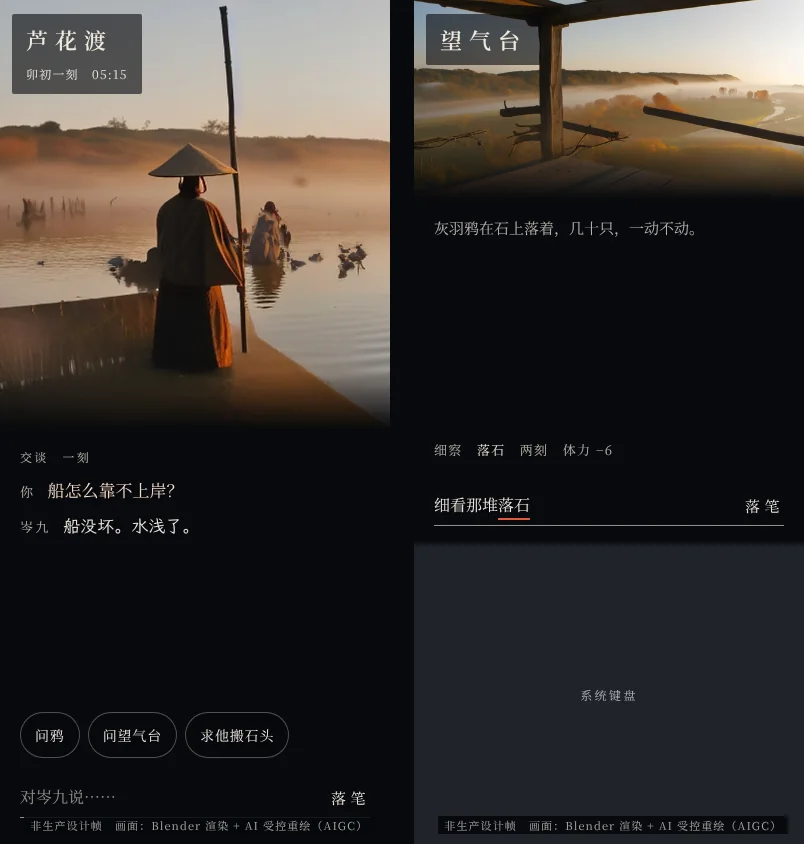
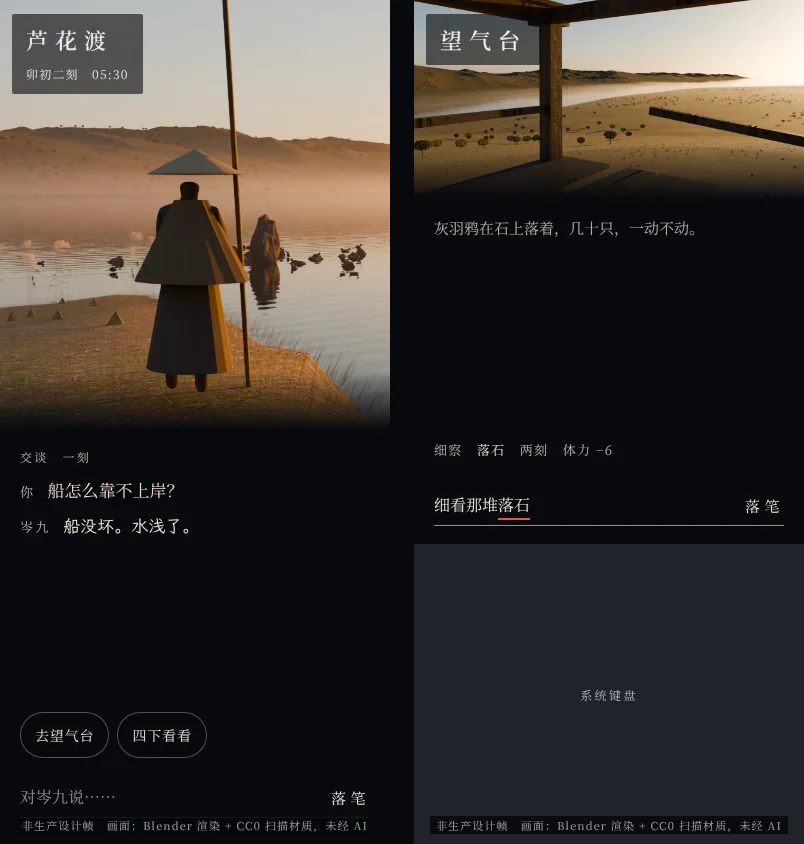
docs(vision-02 final): 复评后最后一轮修订：界面帧改用推荐管线底图、状态与入口违规更正、口径统一、补齐创作决定
Claude-Session: https://claude.ai/code/session_01UT1aoYGEtYtLan2nHHEUfE

diff --git a/docs/design/JX-VISION-02/final/lab/ui.html b/docs/design/JX-VISION-02/final/lab/ui.html
@@ -73,8 +73,8 @@ const C = JSON.parse(q.get('cfg') || '{}');
 const phone = q.get('phone') === '1'; const W = phone ? 390 : 1600, H = phone ? 844 : (mode === 'atlas' ? 1000 : 900);
 const st = document.getElementById('st'); st.style.width = W + 'px'; st.style.height = H + 'px';
 const h = [];
-const place = (extra = '') => `<div class="place"><h1>${C.place || '望气台'}</h1><p>序章　第一日<br>${C.time || '卯初二刻　05:30'}<br>任务　<b>通渡</b>　渡槽口被落石堵住${extra}</p></div>`;
-const tabs = (on) => `<div class="tabs">${['游','读','谈','观','忆'].map(t => `<span class="${t === on ? 'on' : ''}">${t}</span>`).join('')}</div>`;
+const place = (extra = '') => `<div class="place"><h1>${C.place || '望气台'}</h1><p>序章　第一日<br>${C.time || '卯初二刻　05:30'}<br>任务　<b>通渡</b>${C.task === undefined ? '　渡槽口被落石堵住' : C.task}${extra}</p></div>`;
+const tabs = (on) => `<div class="tabs">${(C.tabs || ['游','读','谈','观','忆']).map(t => `<span class="${t === on ? 'on' : ''}">${t}</span>`).join('')}</div>`;
 const anchors = () => (C.anchors || []).map(a => `<div class="anc" style="left:${a.x}px;top:${a.y - (a.l || 26) - 18}px;transform:translateX(-50%);--l:${a.l || 26}px">${a.t}</div>`).join('');
 if (mode === 'you') {
   h.push(`<div class="bg" style="background-image:url(${C.bg})"></div><div class="scrim-b"></div><div class="scrim-t"></div>`, place(), tabs('游'), anchors());
@@ -87,8 +87,8 @@ if (mode === 'you') {
 if (mode === 'tan') {
   h.push(`<div class="bg" style="background-image:url(${C.bg})"></div><div class="scrim-b"></div><div class="scrim-t"></div>`, place(), tabs('谈'));
   h.push(`<div class="card"><h3>岑九</h3>芦花渡摆渡人<br><span style="color:var(--dim)">你只知道这些。</span></div>`);
-  h.push(`<div class="read"><div class="src">交谈　一刻</div><p class="mine"><span class="who">你</span>船怎么靠不上岸？</p><p class="voice"><span class="who" style="font-family:'Noto Serif SC'">岑九</span>船没坏。水浅了。</p><p class="mine"><span class="who">你</span>渡槽口那堆石头，你能帮着搬开吗？</p><p class="voice"><span class="who" style="font-family:'Noto Serif SC'">岑九</span>我这把骨头，搬不动那些石头。你自己掂量。</p></div>`);
-  h.push(`<div class="chips"><span class="chip">问鸦<small>一刻</small></span><span class="chip">问望气台<small>一刻</small></span><span class="chip">下到渡口作业位<small>一刻　体力 −5</small></span></div>`);
+  h.push(`<div class="read"><div class="src">交谈　两刻　规则叙述（内容原文）</div><p class="mine"><span class="who">你</span>船怎么靠不上岸？</p><p class="voice"><span class="who" style="font-family:'Noto Serif SC'">岑九</span>船没坏。水浅了。</p><p class="mine"><span class="who">你</span>望气台是什么地方？</p><p class="voice"><span class="who" style="font-family:'Noto Serif SC'">岑九</span>旧台子。没人管了。你要去看，随你。</p></div>`);
+  h.push(`<div class="chips"><span class="chip">去望气台<small>一刻　体力 −5</small></span><span class="chip">四下看看<small>一刻　体力 −3</small></span></div>`);
   h.push(`<div class="input"><span class="ph">对岑九说……</span><span class="go">落笔</span></div>`);
 }
 if (mode === 'dou') {
@@ -114,7 +114,7 @@ if (mode === 'yi') {
   [[300, '到渡'], [315, '移动'], [330, '环视'], [360, '细察']].forEach(([m, n], i) => h.push(`<div class="tick" style="left:${t(m)}px"></div><div class="tl" style="left:${t(m) + (i % 2 ? 18 : 0)}px;top:${i % 2 ? 340 : 320}px">${n}</div>`));
   h.push(`<div style="position:absolute;left:120px;top:226px;font-size:14px;letter-spacing:.2em;color:var(--dim)">今日长线</div>`);
   h.push(`<div class="thumbs">${(C.thumbs || []).map(([u, n]) => `<div style="background-image:url(${u})"><span>${n}</span></div>`).join('')}</div>`);
-  h.push(`<div class="annal"><b>第一日</b>到芦花渡。登望气台。知渡槽口为落石所堵，石上有鸦，石缝铺新草。<br><b>地点</b>芦花渡、望气台　　<b>线索</b>落石线索、鸦群线索　　<b>人物</b>岑九（芦花渡摆渡人）</div>`);
+  h.push(`<div class="annal"><b>第一日</b>岑九撑船送到芦花渡。登望气台环视，知渡槽口为落石所堵，石上有鸦；细看，石缝铺着新草。<br><b>地点</b>芦花渡、望气台　　<b>线索</b>落石线索、鸦群线索　　<b>人物</b>岑九（撑船的人）</div>`);
   h.push(`<div class="btns"><span>导出卷宗</span><span>删除此存档…</span></div>`);
 }
 if (mode === 'phone') {
@@ -122,14 +122,15 @@ if (mode === 'phone') {
   h.push(`<div style="position:absolute;left:0;right:0;top:${C.kbd ? 140 : 370}px;height:60px;background:linear-gradient(to bottom,rgba(7,9,12,0),#07090c)"></div>`);
   h.push(`<div class="place" style="left:12px;top:14px;padding:10px 14px"><h1 style="font-size:22px">${C.place || '芦花渡'}</h1>${C.kbd ? '' : `<p style="font-size:12px;margin-top:8px">${C.time || '卯初一刻　05:15'}</p>`}</div>`);
   const top = C.kbd ? 214 : 448;
-  if (!C.kbd) h.push(`<div style="position:absolute;left:20px;right:20px;top:${top}px"><div class="src">交谈　一刻</div><p class="mine" style="font-size:17px;line-height:1.8;margin:0 0 .3em"><span class="who">你</span>船怎么靠不上岸？</p><p class="voice" style="font-size:17px;line-height:1.8;margin:0"><span class="who" style="font-family:'Noto Serif SC'">岑九</span>船没坏。水浅了。</p></div><div style="position:absolute;left:20px;right:0;bottom:86px;display:flex;gap:8px;overflow:hidden"><span class="chip" style="padding:12px 14px;white-space:nowrap">问鸦</span><span class="chip" style="padding:12px 14px;white-space:nowrap">问望气台</span><span class="chip" style="padding:12px 14px;white-space:nowrap">求他搬石头</span></div><div class="input" style="left:20px;right:20px;bottom:26px;font-size:16px"><span class="ph">对岑九说……</span><span class="go">落笔</span></div>`);
+  if (!C.kbd) h.push(`<div style="position:absolute;left:20px;right:20px;top:${top}px"><div class="src">交谈　一刻</div><p class="mine" style="font-size:17px;line-height:1.8;margin:0 0 .3em"><span class="who">你</span>船怎么靠不上岸？</p><p class="voice" style="font-size:17px;line-height:1.8;margin:0"><span class="who" style="font-family:'Noto Serif SC'">岑九</span>船没坏。水浅了。</p></div><div style="position:absolute;left:20px;right:0;bottom:86px;display:flex;gap:8px;overflow:hidden"><span class="chip" style="padding:12px 14px;white-space:nowrap">去望气台</span><span class="chip" style="padding:12px 14px;white-space:nowrap">四下看看</span></div><div class="input" style="left:20px;right:20px;bottom:26px;font-size:16px"><span class="ph">对岑九说……</span><span class="go">落笔</span></div>`);
   else h.push(`<div style="position:absolute;left:20px;right:20px;top:${top}px;font-size:15px;color:var(--dim);line-height:1.8">灰羽鸦在石上落着，几十只，一动不动。</div><div style="position:absolute;left:20px;top:${H - 300 - 104}px;font-size:13px;color:var(--dim);letter-spacing:.1em">细察　<b style="font-weight:400;color:var(--ink)">落石</b>　两刻　体力 −6</div><div class="input" style="left:20px;right:20px;bottom:318px;font-size:16px"><span>细看那堆<span style="text-decoration:underline solid var(--zhu);text-decoration-thickness:2px;text-underline-offset:7px">落石</span></span><span class="go">落笔</span></div><div style="position:absolute;left:0;right:0;bottom:0;height:300px;background:#202329;color:#b4b8c0;font-size:12px;letter-spacing:.2em;display:flex;align-items:center;justify-content:center">系统键盘</div>`);
 }
 if (mode === 'home') {
   h.push(`<div class="bg" style="background-image:url(${C.bg})"></div><div class="scrim-b" style="height:40%"></div>`);
-  h.push(`<div style="position:absolute;left:0;right:0;top:38%;text-align:center;font-weight:600;font-size:64px;letter-spacing:.6em;text-indent:.6em;text-shadow:0 2px 30px rgba(0,0,0,.45)">九霄</div>`);
-  h.push(`<div style="position:absolute;left:0;right:0;top:calc(38% + 110px);text-align:center;font-size:13px;letter-spacing:.4em;color:var(--dim)">${C.time || '此刻　卯初二刻'}</div>`);
-  h.push(`<div style="position:absolute;left:50%;bottom:90px;transform:translateX(-50%);border:1px solid rgba(239,233,220,.6);padding:12px 44px;font-size:17px;letter-spacing:.6em;text-indent:.6em;background:rgba(6,8,12,.25)">入世</div>`);
+  const ink = C.dark ? '#1b1914' : 'var(--ink)', sub = C.dark ? '#2e2a22' : 'var(--dim)';
+  h.push(`<div style="position:absolute;left:0;right:0;top:16%;text-align:center;font-weight:600;font-size:64px;letter-spacing:.6em;text-indent:.6em;color:${ink}">九霄</div>`);
+  h.push(`<div style="position:absolute;left:0;right:0;top:calc(16% + 100px);text-align:center;font-size:13px;letter-spacing:.4em;color:${sub}">${C.time || '此刻　卯初二刻'}</div>`);
+  h.push(`<div style="position:absolute;left:50%;bottom:90px;transform:translateX(-50%);border:1px solid rgba(239,233,220,.6);padding:12px 44px;font-size:17px;letter-spacing:.6em;text-indent:.6em;background:rgba(6,8,12,.7)">入世</div>`);
 }
 if (mode === 'atlas') {
   h.push(`<div class="bg" style="background-image:url(${C.bg});background-size:1600px 1000px;background-position:center top"></div><div class="scrim-t"></div>`);
@@ -137,7 +138,7 @@ if (mode === 'atlas') {
   for (const [k, [x, y]] of Object.entries(C.anchors || {})) { const big = !/山脉|妖林|芦花/.test(k); h.push(`<div class="anc" style="left:${x}px;top:${y - 10}px;transform:translate(-50%,-50%);font-size:${big ? 20 : 14}px;letter-spacing:.3em;--l:0px">${k}</div>`); }
   h.push(`<div style="position:absolute;right:64px;bottom:40px;width:420px;font-size:13px;line-height:1.9;color:var(--dim);text-align:right">Canon：万兽山脉东西横贯，人族分南北；洪荒妖林在山脉深处；中州居中；东瀚濒东海；冰神宫在极北。<br>候选：哪几域在北、哪几域在南；纬度、海岸线、地形均为程序生成。</div>`);
 }
-h.push(`<div class="note">非生产设计帧　${C.note || '画面：Blender 渲染 + AI 受控重绘（AIGC）'}</div>`);
+h.push(`<div class="note">非生产设计帧　${C.note || '画面：Blender 渲染 + CC0 扫描材质，未经 AI'}</div>`);
 st.innerHTML = h.join('');
 document.fonts.ready.then(() => { document.title = 'ready'; });
 </script></body></html>

diff --git a/docs/design/JX-VISION-02/final/lab/overlays.py b/docs/design/JX-VISION-02/final/lab/overlays.py
@@ -4,14 +4,14 @@ from PIL import Image
 S = os.environ.get('JX_WORK', '.')
 D = os.environ.get('JX_FRAMES', 'frames')
 JOBS = [
- ('ui-you', 'you', {'bg': 'img/wqt-0530.jpg'}, 1600, 900, ''),
- ('ui-tan', 'tan', {'bg': 'img/talk.jpg', 'place': '芦花渡', 'time': '卯初一刻　05:15'}, 1600, 900, ''),
- ('ui-dou', 'dou', {'bg': 'img/burst.jpg', 'note': '占位：鸦与石为程序化模型；打鸦为示意'}, 1600, 900, ''),
- ('ui-du', 'du', {'bg': 'img/wqt-0530.jpg'}, 1600, 900, ''),
- ('ui-yi', 'yi', {'thumbs': [['img/arrive.jpg', '到渡　卯初'], ['img/talk.jpg', '岑九　05:15'], ['img/wqt-0530.jpg', '望气台　05:30'], ['img/ferry-0530.jpg', '落石　（之后）']]}, 1600, 900, ''),
- ('ui-home', 'home', {'bg': 'img/aerial.jpg', 'time': '此刻　卯初二刻'}, 1600, 900, ''),
- ('ui-phone-a', 'phone', {'bg': 'img/talk.jpg', 'place': '芦花渡', 'pos': '56% center'}, 390, 844, '&phone=1'),
- ('ui-phone-b', 'phone', {'bg': 'img/wqt-0530.jpg', 'place': '望气台', 'kbd': True, 'pos': '60% 55%'}, 390, 844, '&phone=1'),
+ ('ui-you', 'you', {'bg': 'img/cc0-wqt.jpg', 'tabs': ['游', '读', '观', '忆']}, 1600, 900, ''),
+ ('ui-tan', 'tan', {'bg': 'img/cc0-talk.jpg', 'place': '芦花渡', 'time': '卯初二刻　05:30', 'task': ''}, 1600, 900, ''),
+ ('ui-dou', 'dou', {'bg': 'img/burst.jpg', 'note': '占位：鸦与石为程序化模型，底图经 AI 重绘且未过门禁；打鸦为示意'}, 1600, 900, ''),
+ ('ui-du', 'du', {'bg': 'img/cc0-wqt.jpg', 'tabs': ['游', '读', '观', '忆']}, 1600, 900, ''),
+ ('ui-yi', 'yi', {'note': '缩略图：Blender 渲染（到渡为程序化材质，其余为 CC0 扫描材质），未经 AI', 'thumbs': [['img/arrive-render.jpg', '到渡　卯初'], ['img/cc0-wqt.jpg', '望气台　05:15'], ['img/cc0-ferry.jpg', '落石　（渡口近景）']], 'tabs': ['游', '读', '观', '忆']}, 1600, 900, ''),
+ ('ui-home', 'home', {'bg': 'img/arrive-render.jpg', 'time': '此刻　卯初', 'dark': True, 'note': '画面：Blender 渲染（程序化材质），未经 AI'}, 1600, 900, ''),
+ ('ui-phone-a', 'phone', {'bg': 'img/cc0-talk.jpg', 'place': '芦花渡', 'time': '卯初二刻　05:30', 'pos': '56% center'}, 390, 844, '&phone=1'),
+ ('ui-phone-b', 'phone', {'bg': 'img/cc0-wqt.jpg', 'place': '望气台', 'kbd': True, 'pos': '60% 55%'}, 390, 844, '&phone=1'),
 ]
 os.makedirs(f'{S}/v5', exist_ok=True)
 for name, mode, cfg, w, h, extra in JOBS:

diff --git a/docs/design/JX-VISION-02/final/03-玩家旅程与场景.md b/docs/design/JX-VISION-02/final/03-玩家旅程与场景.md
@@ -42,7 +42,7 @@
 
 ## 2. 首屏、世界介绍与进入仪式【改造】
 
-![首屏：俯瞰水口（〔AI·未过门禁〕：人工审阅发现现代农场，只看构图与光）](frames/ui-home.webp)
+![首屏：卯初的水口（Blender 渲染，程序化材质，未经 AI）](frames/ui-home.webp)
 
 - **画面**：从高空俯瞰芦花渡所在的水口。这是“万象”的第三个尺度“地”，晨光沿河谷推进。
 - **文字**：只有“九霄”两个字，加一行入口“入世”。“世界介绍”不放在首屏，放到“读”形态里，可以随时翻阅。
@@ -54,7 +54,9 @@
 - **账号与读档**：放在“忆”形态里，即一本存档册，每个存档显示地点缩略图、游戏时刻和最近一句叙述。云档可以通过链接找回，修复“云端游戏找不回”的问题。
 - **建角**：在晨雾的水面上完成。玩家写下名字；出身与灵根没有规则，所以不做选择项，只问名字与一句“你为何来渡口”。这句话是自由文本，记入卷宗，不产生任何规则效果，并且明确告诉玩家这一点。
 
-![到渡：卯初，水面低机位（〔AI·未过门禁〕：远处出现现代玻璃建筑）](frames/arrive.webp)
+![到渡：卯初，水面低机位（Blender 渲染，未经 AI）](frames/arrive-render.webp)
+
+同一机位的 AI 重绘版（`frames/arrive.webp`）在远处编造了一栋现代玻璃建筑，没有通过门禁，只作对照保留。
 
 **开场**：画面是上图。叙述逐段出现，节奏由玩家点击控制：“船底擦过沙洲，芦花没到膝。／渡口那边本该有船。／岸上一行新脚印，进去就没了。／篙在身后一点。「喏，到了。」”首屏不出现解释性句子，这是内容的约束 `firstScreenConstraint`。
 
@@ -88,7 +90,7 @@
 1. **读**：叙述是 DOM 横排。对应账本事实的短语带虚线，例如“最大的那块有门板高”，每段最多 2–3 处。
 2. **写**：可以自由输入，也可以点建议签，或长按虚线短语把它摘成证物签〔落石·门板高〕放进输入行。本地的确定性解析器（`packages/domain/nlu`，与服务端同一份）实时预览：动作类型、目标、刻数、代价。
 3. **落笔**：被解析出的目标词从输入行升起，沿弧线飞向画中锚点，状态显示“结算中”。
-4. **结算**：服务端先返回事件与 `stateDelta`；词落到物件上，锚点亮一次，账本列出增量；随后叙述到达。
+4. **结算**：服务端先返回经可见性投影后的事件与增量（`visibleDelta`，见 08 §3）；词落到物件上，锚点亮一次，账本列出增量；随后叙述到达。
 5. **追问**：复合句或有歧义时，飞行停在半路，给出选项，每项都标明代价，另附“改写这句话”。
 6. **失败**：网络中断时，词停在原处，显示“这一步还没落定”和重试；同一个幂等键，不会重复结算。
 
@@ -100,9 +102,16 @@
 
 ## 6. 人物交谈、交易与关系【改造】
 
-![“谈”形态：岑九，作业位旁，逆光（底图〔AI·未过门禁〕：落石被画成一个坐着的人影，岑九穿的是长袍而不是蓑衣）](frames/ui-tan.webp)
+![“谈”形态：岑九，作业位旁，逆光（底图〔CC0 渲染〕；岑九仍是占位模型，规格见 01 §9）](frames/ui-tan.webp)
 
-交谈发生在 05:15，此时玩家还没有环视，所以这一帧**没有**〔落石〕证物签；玩家提到石头只能用自己的话（“渡槽口那堆石头”）。“问南边那片白”这个话题在内容表里存在，但在钩子文本投放之前不会作为建议出现（01 §6）。上一版在这里违反了自己的规则，评审 A 指出后已经更正。
+这一帧是“开局先交谈”的分支：05:00 到渡后问了两轮（各 1 刻，体力不变），所以是 05:30。此时玩家还没有环视，因此：
+
+- 没有任何证物签；
+- 任务行只写“通渡”，不写“被落石堵住”；
+- 对话只用内容原文（“问船”“问望气台”两个话题）；
+- 建议签只列此刻规则允许、对象已知的行动（01 §6 的通用规则）。
+
+上一版两次违反这些规则，评审 A 与复评先后指出，现已更正。
 
 - **画面**：两人取景，NPC 在逆光中。远景是剪影，交谈时是受光的半身像；序章帧图用的是剪影。
 - **话语**：岑九的话用他自己的书体，内容来自内容表原文，例如“船没坏。水浅了。”
@@ -204,10 +213,10 @@
 | 十秒 | 首屏的天光就是此刻的九霄时辰；点“入世”，镜头沿真实地理降到水面；第一句叙述“船底擦过沙洲，芦花没到膝” |
 | 十分钟 | 序章闭环：到渡、问岑九、登望气台环视、摘下第一枚证物、细察鸦巢、选择绕行还是打鸦、通渡、解锁折桂坪。每一步的代价都看得见，天光随刻数推移 |
 | 一小时（候选） | **“芦花渡一旬”**：通渡之后，渡口恢复每天一趟（内容原文“通了。明早第一趟。”）。按天推进的小循环：清晨渡口有人往来（作息），白天在望气台修炼（每刻 +800），黄昏前必须回到渡口（天黑后观察被规则拒绝）。这样的十天里会遇到： |
-| | ① 传闻：渡口分舵来人查落石的来历； |
-| | ② 证物推理：用〔鸦巢·新铺的草〕〔落石·从上游来〕等证物向分舵的人陈述，结论由规则判定，引错了有代价； |
+| | ① 传闻：通渡后第二天卯时，渡口分舵派一人来查落石的来历（设计；NPC 与分舵关系见内容 `employment`）； |
+| | ② 证物推理：分舵的人问两个问题——“石头什么时候下来的”“从哪里来的”。玩家用证物作答，判定规则（设计）是：每个问题至少要有一枚事实覆盖它的证物才算答上；〔落石·从上游来〕回答“从哪里来”，〔鸦巢·新铺的草〕说明石堆已经停了一段时日，回答“什么时候”。两题都答上，分舵减免一趟渡钱并给出下一个钩子；引错一次，耗时 1 刻、不给奖励；没有失败终局； |
 | | ③ 天气：雨天渡口停摆，只能修炼或去折桂坪； |
 | | ④ 第一次突破（需境界规则签署）：炼体圆满后引气入体，“观”形态第一次出现灵气层 |
-| 十小时（候选） | **“上游”**：沿河向西进入峡口，第一次打开万象天图的“地”与“景”两个尺度（R4 的地图 MVP）。追查落石从何而来，这是序章“南边那片白”钩子的延续，不揭示 Canon 答案，只沿已有的钩子推进。卷宗累积成年谱，人物关系（岑九与分舵）开始影响价格与消息 |
+| 十小时（候选） | **“上游”**：沿河向西（上游方向）进入峡口，第一次打开万象天图的“地”与“景”两个尺度（R4 的地图 MVP），追查落石从何而来。南边那片白是另一条钩子，留到更后面，这条线不揭示它。卷宗累积成年谱，人物关系（岑九与分舵）开始影响价格与消息 |
 
 这些循环用到的机制（天时作息、证物、天气、突破、地图 MVP）都在本方案里有设计，都在 R3–R4。社会模拟、五域全图、AI 导演都**不**是它们的前提（见 11）。

diff --git a/docs/design/JX-VISION-02/final/11-实施路线与验收.md b/docs/design/JX-VISION-02/final/11-实施路线与验收.md
@@ -24,9 +24,9 @@
 
 | 新编号 | 实验 | 通过标准 | 失败时的回退 | 由旧实验演变而来 |
 |---|---|---|---|---|
-| X1 | **资产管线对比**：望气台一个地点，比较 (a) Blender + CC0 扫描材质（主管线），(b) (a) + GPU 上 ControlNet 约束的局部 AI 增强，(c) AI 整图重绘（本轮已证实不合格，只作对照） | 作者盲选；G1–G6 全部通过，且人工审阅通过；一个地点的搭景与审阅 ≤ 2 个工作日 | 只用 (a) | 替换 E9（原先以付费画师为唯一路线）与 E1 |
+| X1 | **资产管线对比**：望气台一个地点，比较 (a) Blender + CC0 扫描材质（主管线），(b) (a) + GPU 上 ControlNet 约束的局部 AI 增强，(c) AI 整图重绘（本轮已证实不合格，只作对照） | 按 01 §9 规格验收；G1–G6 与人工审阅通过；一个地点的搭景与审阅 ≤ 2 个工作日 | 只用 (a) | 替换 E9（原先以付费画师为唯一路线）与 E1 |
 | X2 | **SceneSpec 与取景**：同一份 SceneSpec 在 390×844、834×1194、1600×900 下渲染 | 必入画锚点都在视口内，且 ≥ 44×44 px；不落入文字安全区（自动化） | 按地点手调机位 | E2 保留，扩大范围 |
-| X3 | **G-buffer 运行时重新打光**：每个机位族烘焙颜色、法线、深度、遮罩，运行时用实时的太阳与天光做延迟着色 | 与 Cycles 真值在 6 个时刻的 ΔE₀₀ 中位数 ≤ 8；作者盲选可以接受；A53 级机型转场 p95 ≥ 55 fps；显存 ≤ 150 MB | 退回按时刻烘焙，但只烘 4 个时刻、只用于序章 | 替换 E1（上一版的“按时刻烘焙插值”因组合爆炸与跨帧漂移而淘汰） |
+| X3 | **G-buffer 运行时重新打光**：每个机位族烘焙颜色、法线、深度、遮罩，运行时用实时的太阳与天光做延迟着色 | 与 Cycles 真值在 6 个时刻的 ΔE₀₀ 中位数 ≤ 8；A53 级机型转场 p95 ≥ 55 fps；显存 ≤ 150 MB | 退回按时刻烘焙，但只烘 4 个时刻、只用于序章 | 替换 E1（上一版的“按时刻烘焙插值”因组合爆炸与跨帧漂移而淘汰） |
 | X4 | **天空 LUT**：Hillaire 四张 LUT 与 Blender 多次散射天空做色调比对 | 同一时刻 ΔE₀₀ 中位数 ≤ 6；主线程每帧 0 ms（LUT 在 Worker 中计算或预烘焙） | 按时刻预烘焙天空 | E5 修改 |
 | X5 | **字体管线** | 4G 节流下首段叙述 1 s 内可见；CLS < 0.05；序章字体流量 ≤ 600 KB；大陆三网都可达 | 减少书体 | E3 保留 |
 | X6 | **言落与证物签** | 中端安卓上 ≥ 55 fps；字序正确；读屏只播报一次；5 名新玩家中至少 4 人说得出“我写的字落到了哪里” | 改为纯 DOM 的 FLIP 动画；增加一次性引导 | E4、E11 合并 |
@@ -47,7 +47,7 @@
 |---|---|---|---|---|
 | **R0 实验** | X1–X12 的结论；画板管线雏形；天空 LUT 原型 | 作者同意 | 每个实验都有截图或录屏与原始数据 | 不涉及生产 |
 | **R1 地基** | 依序进行：修复缺陷 9（让 CI 可信）；缺陷 3、8；缺陷 4、7；**P1 冻结（X14）**；拆分提交与叙述（返回投影后的增量）；可见性视图；`packages/scene`（SceneSpec v0）；`packages/world` 的九霄历与天文（只影响表现）；境界顺序的 ADR；新 CI 的数据与安全两类检查；最后在新规则版本里修复缺陷 1、2、5、6 | 执行命令；P1 冻结的授权；缺陷 1、5、6 的内容裁定 | 新增的契约测试、回放测试、安全测试全绿；旧存档往返不变 | 每项都有开关；接口只增不改 |
-| **R2 竖切片“天光·芦花渡”** | 序章三个地点 × 8 时刻 × 4 机位的画板；three.js 渲染器（T0–T2）；言落；摘句为证；导演 v1（只用规则）；“游、读、谈、斗”四种形态；环境声；无障碍 | R1；X1、X2、X3 通过 | 序章闭环在三档视口、三种读屏下完成；“画面 ⊆ 事实”测试通过；X7 对比度通过；真机矩阵不白屏 | 开关 `scene.tianguang`；关闭后回到现有界面 |
+| **R2 竖切片“天光·芦花渡”** | 序章三个地点 × 4 机位族的 G-buffer 画板与状态层（运行时打光）；three.js 渲染器（T0–T2）；言落；摘句为证；导演 v1（只用规则）；“游、读、谈、斗”四种形态；环境声；无障碍 | R1；X1、X2、X3 通过 | 序章闭环在三档视口、三种读屏下完成；“画面 ⊆ 事实”测试通过；X7 对比度通过；真机矩阵不白屏 | 开关 `scene.tianguang`；关闭后回到现有界面 |
 | **R3 世界系统** | 天气（只影响表现）；NPC 见证记忆与知识模型；作息；卷宗与今日长线；导出与删除；“观”形态（炼体的身体感）；分层音乐 | R2；叙述持久化的政策批准 | N1–N5；导出可以重新导入并逐字一致；删除后无法检索 | 开关；叙述表可以独立停用 |
 | **R4 序章之后的循环** | “芦花渡一旬”与“上游”（03 §17）；地图 MVP（“地”“景”两个尺度、迷雾、路线）；第一次突破与炼气的“观”层；传闻传播 | 内容（作息、分舵、上游）与突破规则的签署 | 地图只显示 `Known`；突破事件可以回放；X11、X12 通过 | 开关 |
 | **R5 长期** | 万象天图的“天下”“域”尺度与五域；社会与势力模拟；天劫；多地域套件；AI 导演（可选）；T3（WebGPU、3DGS） | 相应的 Canon 与规则 | 按模块另立 | 开关 |
@@ -55,6 +55,6 @@
 ## 4. 验收的总原则
 
 1. **证据优先**：写“通过”就必须有 CI run、提交 SHA 或真机录屏。
-2. **艺术验收也要有程序**：作者盲选（新旧对比，随机顺序）、独立评审的书面反例、玩家测试的录像。
+2. **艺术验收也要有程序**：由创作者按 01 的规格（域色命题、构图纪律、§9 套件规格）逐条验收，并附独立评审的书面反例与玩家测试录像；作者保留否决权，但不需要替创作者做选择。
 3. **性能是报告，不是门槛**：只有最低画质档设硬阈值。
 4. **无障碍是门槛**：X7 与 X8 不通过，就不上线。

diff --git a/docs/design/JX-VISION-02/final/01-艺术身份与创意指导.md b/docs/design/JX-VISION-02/final/01-艺术身份与创意指导.md
@@ -37,7 +37,7 @@
 
 | 情境 | 媒介 | 为什么 |
 |---|---|---|
-| 探索、远望、到达 | **受光的山河**：三维布局加 AI 重绘的画板，实时天空、水与光 | 空间与时间的真实感（支柱 1、2） |
+| 探索、远望、到达 | **受光的山河**：三维场景加 CC0 扫描材质烘焙成 G-buffer 画板，运行时按真实天光重新打光；天空、水、雾实时生成；AI 只做受门禁约束的局部增强 | 空间与时间的真实感（支柱 1、2） |
 | 交谈、交易 | 两人取景、浅景深、人物逆光剪影到半身像 | 关系与面孔（游戏评审：岑九需要一张脸） |
 | 线索与物件 | 微距特写、景深、物件的质感 | 证据的分量（摘句为证与物件对应） |
 | 阅读、回忆 | **卷宗**：纸、墨、排印；回忆的画面去饱和，带颗粒 | 文学的分量，长文可读 |
@@ -86,6 +86,14 @@
 | 一个模糊的影子、一阵不合时宜的声音、光的异常 | 在画面里出现规则未授予玩家的物品、人物身份或剧情答案 |
 | 镜头在某处多停 0.3 秒 | 用镜头直接暗示答案，例如推近到隐藏的线索上 |
 
+**建议签与话题的通用可见性规则**（创作决定）：一张建议签只有在以下条件都满足时才出现，否则不出现，也不被解析器当作已知目标。
+
+1. 它指向的对象（地点、物件、人物、话题主题）属于角色的 `knownFacts` 或 `knownPlaces`；
+2. 规则此刻允许这个行动；
+3. 它的代价可以算出。
+
+内容表里的话题可以声明 `requiresKnown: [factId…]` 来表达条件 1。
+
 **与内容表的关系**：内容表里存在“问南边那片白”这样的话题（`prologue-v1.ts:327`）。本规则不删除它，只规定它在钩子投放（或玩家以其他方式得知）之前，不作为建议签出现，也不被解析器当作已知目标。内容表决定“有什么”，本规则决定“何时可见”。
 
 技术上，SceneSpec 把画面元素分为 `fact`（绑定可见事实，可以标注、可以指向）、`ambient`（环境，不可指向）、`omen`（伏笔，不可指向，由内容作者登记，并注明它不泄露的事实 ID）三类。CI 检查 `fact` 元素集合必须是可见事实集合的子集（见 [08](08-全栈架构与数据契约.md)）。
@@ -117,3 +125,19 @@
 - 不把可读文字画进画布；
 - 不用自动推进的字幕代替可以控制节奏的阅读；
 - 不让 AI 生成的图像未经事实检查与许可登记就进入发布。
+
+## 9. 序章套件规格（创作决定，供建模与验收使用）
+
+“套件”指一个地域可以重复使用的植被、物件与人物资产。下表是序章的规格，验收时逐条核对。依据序章内容原文与秋季江南水口的自然常识；凡是标“设计”的，都是我的决定，不是 Canon。
+
+| 对象 | 规格 | 依据 |
+|---|---|---|
+| 芦苇 | 芦苇属，高 1.5–3 m；秋季花序 20–40 cm，偏棕白（#C9BBA0）；逆光时透光；成片生长，前缘被踩倒（“岸边踩倒的芦花没人扶”）；叶互生，带状下垂 | 内容；植物常识 |
+| 灰羽鸦 | 体长约 45 cm；身体灰色（#6E7176），头、翼、尾黑色（设计：取冠小嘴乌鸦的配色，以对应“灰羽”）；石上停栖时“一动不动”；几十只，分布在整个石堆上，不在水面 | 内容“灰羽鸦”“几十只，一动不动” |
+| 落石 | 河卵石与棱角石混合，青灰；最大一块约 2 m 高（“门板高”）；石缝里铺着软而新的干草，草边有一圈压痕 | 内容 |
+| 岑九 | 约五十多岁；三层蓑衣，竹编斗笠直径约 60 cm（设计：圆锥浅笠，不用越南式尖笠）；手背有深裂口，左耳缺一角；常年日晒的肤色；撑篙的姿态 | 内容（`appearance`） |
+| 渡船 | 平底木船，长约 7 m；船底板缝里嵌着芦籽（“一颗一颗排得很匀”）；吃水深，搁在渡槽里的淤泥上 | 内容 |
+| 芦花渡的房屋 | 土坯墙，茅草或小青瓦屋顶，矮檐；渡口作业位有木桩栈台；不出现玻璃、砖混或洋式门窗 | 设计 |
+| 秋季植被 | 枫杨、柳，加零星乌桕（秋叶红）；坡地是枯黄的草与灌丛，不是沙地 | 设计（解决 CC0 远景偏荒漠的问题） |
+| 望气台 | 四根朽木立柱，残顶，栏杆断了一截；台面木板缺两块 | 内容“木头朽了”；设计 |
+

diff --git a/docs/design/JX-VISION-02/final/reviews/复评.md b/docs/design/JX-VISION-02/final/reviews/复评.md
@@ -1,0 +1,54 @@
+# 复评：13 §3.1 的落实核对
+
+路径相对 `final/`。
+
+## 一、15 项逐条核对
+
+| # | 结论 | 证据 |
+|---|---|---|
+| 1 | 已落实，数字有误 | G1 读的是合成前的图（`gate.py:22`）。但 09:77 写 G3“8 帧不过”，`gate.json` 实为 6 帧；README:51 的“0.19”查无出处，实测最低是 0.218 |
+| 2 | 部分落实 | 01:131 的媒介表仍写“AI 重绘的画板”。四张界面帧（游、读、忆、手机）仍用 AI 底图（`overlays.py:44-51`），03 里没有标注，帧脚注反而写“AI 受控重绘”。评审 A 要求撤下 arrive、aerial，此条既没执行，也没列进 §3.2 |
+| 3 | 部分落实 | 07:60 仍写按时刻烘焙，并引向已改写的 09 §3。08:166、11:50（R2）、02:76 仍按“8 时刻 × 4 机位”计 |
+| 4 | 已落实 | `ui-tan`、`ui-phone`、`ui-du` 三帧都已改正；01:180 写明了内容表与可见性规则的关系 |
+| 5 | 已落实 | 最低对比度 4.82（`frames/contrast-report.txt`） |
+| 6 | 部分落实 | 08:44 已改为 `visibleDelta`。03:91 和 07:22 仍用 `stateDelta`，而导演是前后端共用的 |
+| 7 | 已落实 | 08 §3–§6 |
+| 8 | 已落实 | 08 §8、X14、D12 |
+| 9 | 部分落实 | 06 §1.2 已对等呈现两个选项。但 06 §3 的神识表按选项甲排序，“化神·言落成真”默认了甲 |
+| 10 | 部分落实 | 天文数值经代码复核无误（第 266 日为 −0.68°、58.64°）。06:66 仍写“∂Φ/∂n=0”，与 06:69 的更正矛盾 |
+| 11 | 已落实 | 08:134 |
+| 12 | 已落实 | 08 §8 |
+| 13 | 已落实（仅文字） | 03 §17 全部标为候选。“上游”是向西走，却被说成“南边”钩子的延续 |
+| 14 | 已落实 | 11 R4、R5 |
+| 15 | 部分落实 | 耗时已改为 63–295 s；README 新引的“0.19”没有出处 |
+
+**合计**：已落实 9 项，部分落实 6 项，未落实 0 项。部分落实的共同问题是只改了主文档，没有改到其他文档和帧图。
+
+## 二、修订后新出现的矛盾
+
+1. **忆帧混合了两条互斥分支。** `ui-yi` 的长线在 05:15 标的是“移动”，缩略图却是“岑九 05:15”，人物栏也列了岑九。03:31 已规定交谈是另一条分支。
+2. **“谈”标签违反入口规则。** `ui-you`、`ui-du` 在望气台，叙述写着“台上没有人”，仍显示“谈”标签。这违反 07:101，原因是 `ui.html:77` 无条件列出全部标签。
+3. **05:15 仍在剧透。** `ui-tan` 撤掉了证物签，但任务行仍写“渡槽口被落石堵住”，建议签仍有“问鸦”“求他搬石头”，而落石与鸦要到 05:30 才获得。画面里有两轮问答，却只标“一刻”。
+
+## 三、仍然最严重的问题
+
+1. **推荐管线的成品样子没有展示。** 三张 CC0 帧里，远景是荒漠，鸦是浮在水上的蛋形，芦苇像纸条，岑九是锥体。界面帧和 README 首图用的全是被本方案否决的 AI 画面。
+2. **门禁几乎提供不了证据。** 交谈帧的失败恰恰是落石被画成“坐着的人”，G3 对“a person sitting”只给出 0.001，判为通过；G2 则 12 帧全过。
+3. **G-buffer 的改动没有贯穿全文。** 预算、R2 交付范围和 07 的打光说法仍是旧口径，方案无法据此执行。
+4. **境界顺序悬而未决，神识支柱却已默认了一种顺序。**
+5. **帧图仍违反方案自己的可见性与状态规则**（见第二节）。
+
+## 四、总体判断
+
+还没有形成一份内部一致、可执行、有明确主张的推荐。主张本身已经清楚：几何保证事实，AI 只做受控增强。但它只在 09 和 README 里成立，01、03、07、08、11 和界面帧仍按旧方案运转。
+
+**仍交给作者、但本该由创作者决定的事：**
+
+- 美术方向靠“作者盲选”来定（X1、X3），植被、人物、鸦的套件风格没有规格；
+- NPC 的画法未定（02:75）；
+- 线索名称（D7）没有给出提案；
+- 建议签何时可见只裁了一条，没有通用规则；
+- 03 §17 循环里的事件和证物推理的判定没有设计；
+- 没有写出选项乙之下神识表怎样改。
+
+境界顺序与 Canon 的空白确实属于作者的权限。

diff --git a/docs/design/JX-VISION-02/final/13-评审与证据.md b/docs/design/JX-VISION-02/final/13-评审与证据.md
@@ -77,6 +77,24 @@
 | 界面叠加 | [lab/ui.html](lab/ui.html)、`frames/ui-*.webp` | 七种形态里五种的版式，全部是 DOM 文字 | 交互手感、性能、读屏 |
 | 缺陷核验 | [appendix/canon-verify.md](appendix/canon-verify.md) §4 | 7 个可复现，1 个部分复现，1 个潜伏 | 线上的实际触发频率 |
 
-## 5. 评审结果
+## 5. 复评与最后一轮修订
 
-（待填写）
+复评人没有参与创作，逐条核对了 §3.1 的 15 项（原文见 [reviews/复评.md](reviews/复评.md)）。结论是：9 项已落实，6 项只改了主文档，没有传到其他文档和帧图；另外新出现了三处违规。最后一轮修订如下：
+
+| 复评指出 | 修订 |
+|---|---|
+| 界面帧与首图用的是本方案自己否决的 AI 画面 | 7 个界面帧全部改用推荐管线的底图（CC0 渲染，或纯渲染），首屏改用未经 AI 的渲染；只有“斗”帧保留 AI 底图，并标为占位 |
+| “忆”帧混了两条互斥分支；没有人在场时仍显示“谈”标签；05:15 的任务行与建议签剧透了落石和鸦 | “忆”只记主线；形态标签按 07 的入口规则配置；交谈帧改为 05:30 的两轮原文对话，任务行只写“通渡”，建议签按 01 §6 的通用规则生成 |
+| 01、03、07、08、11 仍按“按时刻烘焙”和原始 `stateDelta` 写 | 全部改为 G-buffer 运行时打光与 `visibleDelta` |
+| 数字错误：G3 “8 帧不过”（实为 6 帧）；README 引的 0.19 没有出处 | 更正为 6 帧与 0.22–0.59；补记 G3 的 3 处漏检，其中包括“坐着的人”得分只有 0.001 |
+| 06 第 66 行仍写 ∂Φ/∂n = 0 | 更正 |
+| 神识表默认了选项甲 | 写明选项乙只需交换两行，模型不变 |
+| “上游”在西，却说成“南边那片白”的延续 | 更正为两条独立的钩子 |
+| 本该由创作者决定、却交给了作者的事：美术方向靠作者盲选；NPC 画法；线索名称；建议签可见性的通用规则；循环的具体规则；植被、人物、鸦的规格 | 全部补上：01 §9 套件规格；人物画法定为 Blender 三维人物、不用 AI 面孔（05）；线索命名提案（12 D7）；建议签可见性规则（01 §6）；分舵问答的判定规则（03 §17）；艺术验收改由创作者按规格进行，作者保留否决权（11） |
+
+**修订后的对比度实测**（[frames/contrast-report.txt](frames/contrast-report.txt)）：8 次测量（7 张图，手机图分两次测），最差对比度 4.75–8.15:1，全部 ≥ 4.5:1。
+
+**仍然存在、本轮无法解决的问题**：
+
+- 推荐管线的三张 CC0 帧，近景已经可信，但远景仍像荒漠，芦苇、鸦与岑九仍是占位模型。要达到 01 §9 的规格，需要按套件建模：这是 X1 的工作，CPU 即可完成，但需要时间。
+- 最后一轮修订之后，没有再做第三轮评审。

diff --git a/docs/design/JX-VISION-02/final/06-修炼与神识.md b/docs/design/JX-VISION-02/final/06-修炼与神识.md
@@ -63,7 +63,7 @@
 |---|---|---|
 | D | 灵气的弥散系数，随地貌变化 | 候选：山地低、平原高 |
 | λ | 耗散率：天地吸收灵气的速度 | 候选 |
-| u | 携带灵气的流：风 | 灵感来自郭璞《葬书》“气乘风则散，界水则止”。风使灵气散开；水体当作反射边界（∂Φ/∂n = 0），即“界水则止”。这是**典籍启发的设计**，不是物理 |
+| u | 携带灵气的流：风 | 灵感来自郭璞《葬书》“气乘风则散，界水则止”。风使灵气散开；水体是“界水则止”的边界（总通量为零，见下）。这是**典籍启发的设计**，不是物理 |
 | S | 源：灵脉节点、天时耦合（灵潮系数，见 04 §5） | Canon：“灵脉”“灵气充裕之地”；灵脉位置是候选 |
 
 **边界条件**：水体作为“界水则止”的边界，令**总通量**为零：(−D∇Φ + uΦ)·n = 0。没有平流（u = 0）时，退化为 ∂Φ/∂n = 0。上一版只写了后者，这是评审 B 指出的错误。
@@ -101,7 +101,7 @@ D ∇²Φ − λ Φ = −S
 
 ## 3. 神识：境界决定所见（核心机制，规则须签）
 
-依据 Canon 的“灵力物态”链，每一境开放一类可观测量。**感知数据由服务端从权威的 Φ 计算后下发**，客户端只负责画；不该看到的数据根本不下发。
+依据 Canon 的“灵力物态”链，每一境开放一类可观测量。下表按选项甲（Canon 正文顺序）排列。**如果作者选择选项乙**，只需交换最后两行：元婴之后先“化神：法域”，再“合体：星象”；模型与可观测量本身不变，“言落成真”仍然对应法域这一能力，只是更早出现。**感知数据由服务端从权威的 Φ 计算后下发**，客户端只负责画；不该看到的数据根本不下发。
 
 | 境界 | Canon 依据 | 可观测量 | 画面（“观”形态） | 玩法价值（候选） |
 |---|---|---|---|---|

diff --git a/docs/design/JX-VISION-02/final/09-资产生产体系.md b/docs/design/JX-VISION-02/final/09-资产生产体系.md
@@ -74,7 +74,7 @@ Blender 场景（lab/scene.py）
 |---|---|---|---|
 | G1 事实保持 | **合成前**的 AI 原图在事实遮罩区内与渲染一致 | 亮度相关系数 ≥ 0.95；生产版应改为 SSIM 加色彩直方图距离，并容许 2 像素位移（评审 B） | 5 帧有事实遮罩：4 帧不过（0.22–0.59）；微距帧 0.955 “通过”，但这是**误判**：AI 几乎没改动画面，画面本身就不合格 |
 | G2 几何一致 | 全幅边缘结构没有漂移 | 渲染与 AI 原图的 Sobel 边缘图相关系数 ≥ 0.6 | 12 帧全过（0.62–0.93），但人工看到的地理漂移它一处也没抓到。**阈值太松**，生产版至少要到 0.9，并加深度一致性检查 |
-| G3 不编造 | 遮罩外没有禁用概念 | 零样本图文模型（CLIP ViT-B/32，MIT）：禁用概念的得分不得高于对照概念 | 8 帧不过（远望四个时刻、鸦起、微距等）；**到渡与俯瞰“通过”，但人工看出了现代建筑与现代农场**。小目标漏检 |
+| G3 不编造 | 遮罩外没有禁用概念 | 零样本图文模型（CLIP ViT-B/32，MIT）：禁用概念的得分不得高于对照概念 | 6 帧不过（远望四个时刻、鸦起、微距）；6 帧“通过”，其中至少 3 帧是**漏检**：到渡（现代建筑）、俯瞰（现代农场）、交谈（落石被画成坐着的人，“a person sitting”的得分只有 0.001）。对小目标与语义改写几乎无效 |
 | G4 跨帧一致 | 同一机位在不同时刻、不同状态之间不漂移 | 深度与边缘的帧间差异 | 未实现 |
 | G5 “不存在”断言 | 例如通渡之后，原落石区不得再出现石堆 | 状态层遮罩加分类器 | 未实现 |
 | G6 人物必画特征 | 例如岑九的蓑衣、斗笠；“左耳缺一角” | 人物遮罩加人工核对 | 未实现；本轮的岑九（披袍、越南式斗笠）不符合 |

diff --git a/docs/design/JX-VISION-02/final/08-全栈架构与数据契约.md b/docs/design/JX-VISION-02/final/08-全栈架构与数据契约.md
@@ -121,7 +121,7 @@ ChronicleEntry { branchId; day; turnIds: Uuid[]; placeIds; clueIds; summary: { s
 
 | 用途 | 输入 | 输出与校验 | 频率 |
 |---|---|---|---|
-| 叙述 | 本回合事件与 `stateDelta`；被授权的 Canon 片段；风格 | 片段与 `factRefs`；越界则回落到模板 | 每回合 1 次 |
+| 叙述 | 本回合事件与增量（服务端内部可读完整 `stateDelta`，但叙述只能引用角色可见的事实）；被授权的 Canon 片段；风格 | 片段与 `factRefs`；越界则回落到模板 | 每回合 1 次 |
 | NPC 对白 | 人物卡与被授权的知识 | 实体检查 | 每次交谈 |
 | 导演排序（可选） | 候选镜头 | 只能返回候选编号 | 默认关闭 |
 | 卷宗润色 | 实录 | 每句都要链接实录 | 玩家主动触发 |
@@ -163,7 +163,7 @@ ChronicleEntry { branchId; day; turnIds: Uuid[]; placeIds; clueIds; summary: { s
 | 首屏 JS（gzip，不含 three） | ≤ 180 KB |
 | three 与渲染器 | 进入“游”形态时才加载 |
 | 首帧 T0 天光（AVIF） | ≤ 200 KB；4G 节流下，HTML 加载后 1 s 内首段叙述可见 |
-| 每个地点的画板包 | 8 个时刻 × 4 个机位族 × 颜色与深度 AVIF，约 10 MB，按需分片加载 |
+| 每个地点的画板包 | 4 个机位族 × 季节外观的 G-buffer（颜色、法线、深度、遮罩，AVIF/KTX2），加状态层；估计 15–25 MB，按机位分片加载（待 X3 实测） |
 
 画板包放在 Cloudflare Pages 的静态资源里，但**与未来状态有关的层不能公开放置**，例如通渡之后的画面、鸦巢的特写、未投放的伏笔。这些层由 API 在状态到达之后签发短时 URL，manifest 里的提示词也不公开。单文件上限本轮**未核实**。规模扩大后改用 R2，这需要作者批准费用。
 

diff --git a/docs/design/JX-VISION-02/final/02-裁决与采纳台账.md b/docs/design/JX-VISION-02/final/02-裁决与采纳台账.md
@@ -73,7 +73,7 @@
 | 第 3 章：“不需要实时 3D”不自动固化 | **修改** | 重新比较之后，选择混合：多数场景用烘焙画板加实时天空与水，少数展示场景用实时 3D |
 | 第 3 章：固定四层手绘画板 | **不采纳** | 改为“按地点决定层数”：2–4 层前景，加深度图，加实时天空 |
 | 第 3 章：NPC 必须用白描半身像 | **修改** | 远景是剪影，交谈时是受光的半身像。画法由管线产出（三维人体或 AI 重绘），不限定白描 |
-| 第 3 章：每个地点不超过 3 人日 | **修改** | 改成按管线计量：一个地点要产出 8 个时刻 × 4 个机位族；目标是一个地点 ≤ 2 个工作日的人工审阅时间，计算时间另计 |
+| 第 3 章：每个地点不超过 3 人日 | **修改** | 改成按管线计量：一个地点要产出 4 个机位族 × 季节外观 × 状态层的 G-buffer，时刻与天气在运行时打光；目标是一个地点 ≤ 2 个工作日的人工审阅时间，计算时间另计 |
 | 第 3 章：固定镜头语法与时长 | **修改** | 保留“事件类型决定镜头族”的原则，具体镜头由导演按情境选择；只保留时长上限 |
 | 第 3 章：首屏只有“九霄”与“进入” | **修改** | 首屏是一段真实的天光，即访问者此刻对应的九霄时辰，加上世界的远景；文字最少，见 03 |
 | 第 3 章：所有设备同一结构 | **不采纳** | 手机与桌面用不同的结构，见 07 §4 |

diff --git a/docs/design/JX-VISION-02/final/07-镜语声音与界面形态.md b/docs/design/JX-VISION-02/final/07-镜语声音与界面形态.md
@@ -19,7 +19,7 @@
 | 名称 | 内容 |
 |---|---|
 | `SceneSpec` | 地点、地理锚点（`fact`、`ambient`、`omen` 三类）、光（太阳与月亮方向、天气、调色）、可用的机位族、文字安全区 |
-| `event` | 最近一次结算的事件类型与 `stateDelta` |
+| `event` | 最近一次结算的事件类型与经可见性投影后的增量（`visibleDelta`）；导演是前后端共用的纯函数，绝不读取未投影的 `stateDelta` |
 | `prefs` | 玩家偏好：默认形态、减少动态效果、镜头时长倍率、是否允许 AI 导演 |
 | `DirectorPlan` | 界面形态、镜头序列（机位族、景别、一个运动轴、时长）、调色、音频提示、界面提示、总时长上限 |
 
@@ -57,7 +57,7 @@
 
 ## 2. 光与调色
 
-- **物理层**：太阳、月亮、天空由天文与天气决定（04）；在画板上用“时刻关键帧烘焙加插值”实现重新打光（09 §3）。
+- **物理层**：太阳、月亮、天空由天文与天气决定（04）；画板是 G-buffer（颜色、法线、深度、遮罩），运行时用当时的太阳与天光做延迟着色（09 §2）。
 - **调色层**：每个地域的“色彩命题”（01 §2）作为单独的调色参数，例如暗部偏冷、亮部偏暖的程度；夜间单独有一套。调色只改色调，不移动光源。
 - **事件调色**：只用于短时的情绪强调：撤退时去饱和 0.4 s；回忆时加颗粒、降饱和。开启“减少动态效果”时没有渐变。
 
